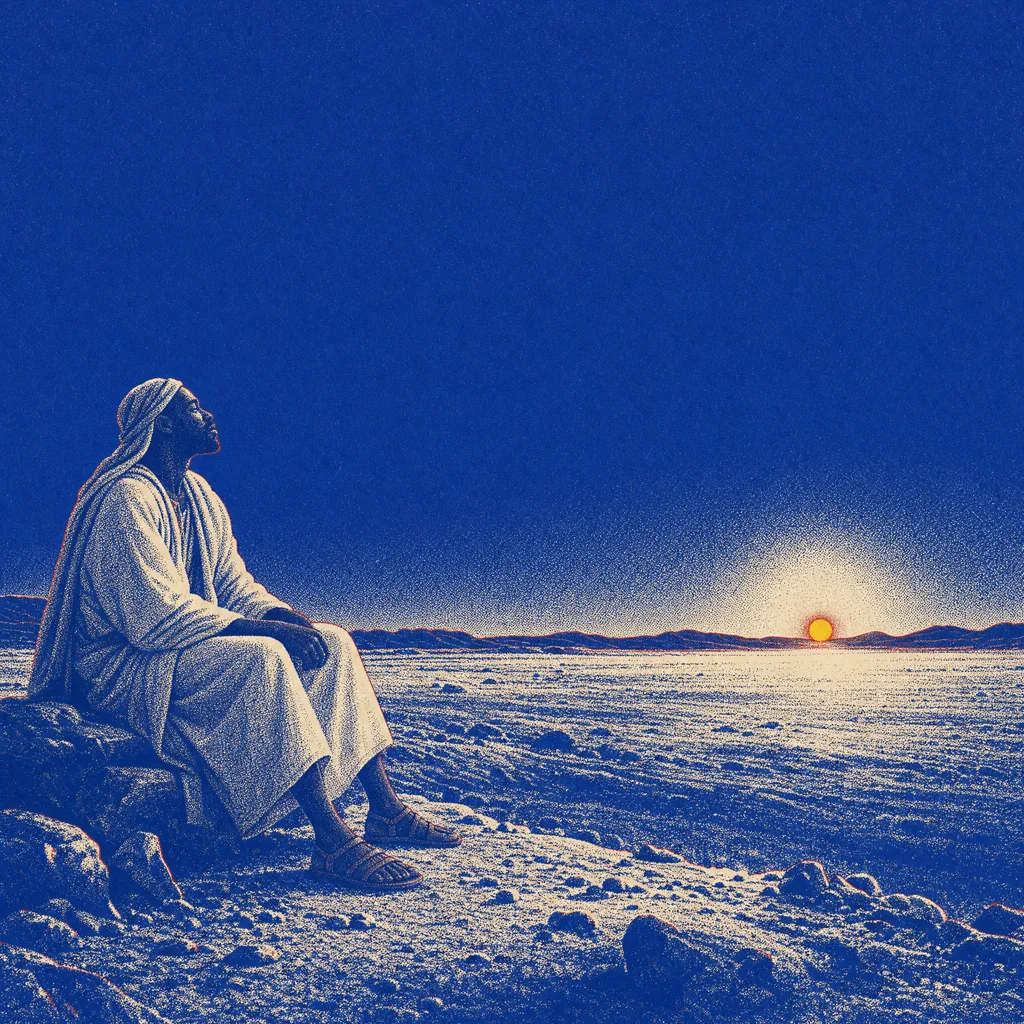
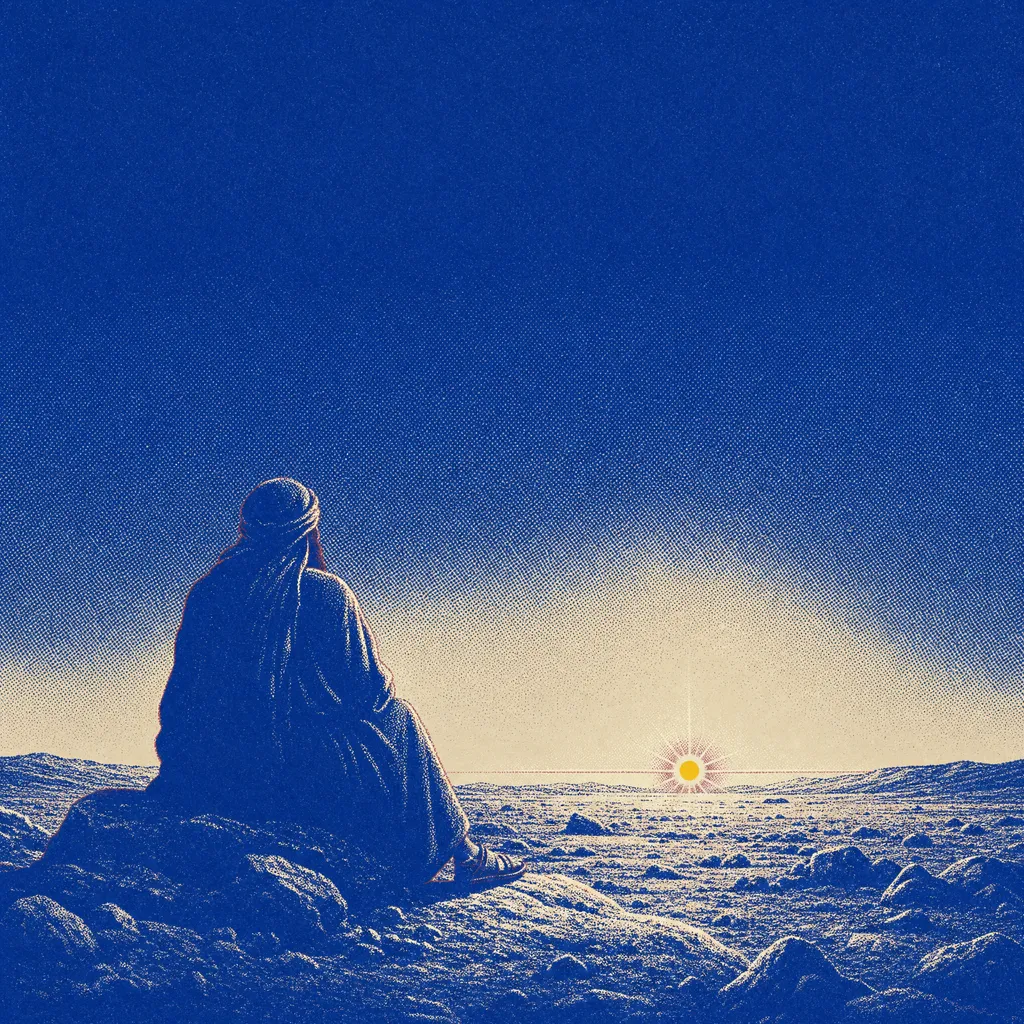
fix(artwork): no portraits — figures rendered anonymous so the reader stands in the scene — SA-041 (F-087)
Founder: the depictions were accurate but they were portraits, and a devotional
image is one the reader steps into rather than looks at. Accuracy (D-010) and
anonymity are separate axes; only the first had been satisfied.

Four plates regenerated: the Transfiguration is a silhouette swallowed by the
light with both disciples seen from behind; Elijah is a wrapped form turned
away and the figure over him has no face; the Samaritan kneels bowed and hooded
with the wounded man's head in shadow; the series card looks at the sun with the
figure rather than at him.

Six needed no change — they already showed no face. Palette held: Δ39-59 from
#1b3fae, gold ≤0.11%.

diff --git a/CHANGELOG.md b/CHANGELOG.md
@@ -5,6 +5,34 @@ Format: Reverse chronological, grouped by sprint/date.
 
 ---
 
+## ARTWORK — no portraits; the reader stands in the scene (2026-08-14)
+
+Founder, on the replate below: _"supposed to be scientifically and historically
+accurate depictions if depicting literal people. And the aim is to obscure their
+identity more so so the reader can read themselves into the image. You nailed
+the style but not the subject."_ Registered as **SA-041**.
+
+**Accuracy and anonymity are two axes, and only one of them had been fixed.**
+D-010 governs the depiction — period dress, anatomy, setting, botany. SA-041
+governs the identity: no rendered likeness. Satisfying the first does not
+satisfy the second, which is how the replate shipped four plates that were
+historically accurate and still wrong. They were portraits: faces you look at
+rather than figures you step into.
+
+Four regenerated. The Transfiguration is now a pure silhouette swallowed by the
+light with the two disciples seen from behind, arms over their heads. Elijah is
+a wrapped form turned away on the ground, and the figure standing over him has
+no face at all. The Samaritan kneels bowed and hooded; the wounded man's head is
+turned into shadow. The series card looks _at_ the sun _with_ the figure instead
+of looking at him — which is what the series is called.
+
+Six plates needed no change, and the reason is instructive: they already had no
+visible face. Three figures walking away up the Emmaus road, feet on a track,
+hands on a scroll, and three plates with no people in them.
+
+Palette held through the change — Δ39–59 from `#1b3fae`, gold ≤0.11%. — SA-041
+(F-087)
+
 ## ARTWORK — "Looking at the Sun" replated to the locked riso pipeline (2026-08-14)
 
 Founder: _"THE ARTWORK IS INCORRECT!!! YOU DIDNT USE THE DEVO-GO PROMPT FOR

diff --git a/docs/feature-prds/F-087.md b/docs/feature-prds/F-087.md
@@ -92,6 +92,9 @@ A Monday start puts the pivot on Wednesday and lands the sabbath on Sunday.
 - Narrated in the canonical voice, chaptered from real render timings.
 - Every image justified by its own caption, accurate, and generated to the
   locked riso technique with the anchor hero attached as reference (D-012).
+- No portraits. Figures are depicted accurately and rendered anonymously —
+  turned away, wrapped, or silhouetted — so the reader stands in their place
+  rather than looking at them (SA-041).
 
 ## Scope
 
@@ -150,6 +153,8 @@ on.
 - [x] All ten images generated per D-012/D-013 with the anchor hero + founder
       reference attached; palette-measured against `#1b3fae`; figures African
       per D-010/D-011; the rothem rendered botanically correct (SA-040)
+- [x] No face rendered on any plate — every figure turned away, wrapped or
+      silhouetted, so the reader can stand in the scene (SA-041)
 - [x] Rendered-DOM test across all 7 days and every inline image
 - [ ] Narration rendered and chaptered for all 7
 - [ ] Gates: type-check, verify:\*, lint, test, build
